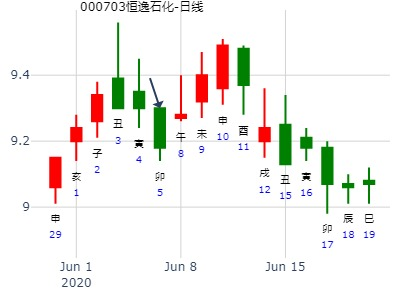
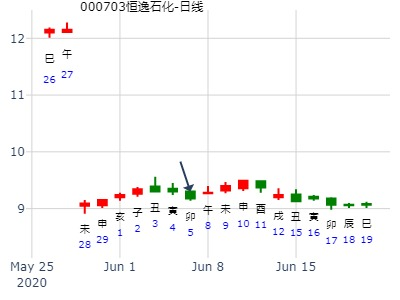
sheng2heng

diff --git a/升之恒.html b/升之恒.html
@@ -1,0 +1,319 @@
+<style>
+                        body  {color: black;  font-size: 12px; background-color: rgb(250, 240, 230);}
+                        img {width:80%; height:auto; } 
+                        </style><p>此卦信息不全，没有时间。</p>
+<hr />
+<p>天同问辛丑年财运。升之恒。天同卦.md</p>
+<p>时间: 2021-02-16   3时49分</p>
+<p>干支: 辛丑年庚寅月乙未日      (旬空: 辰巳 )</p>
+<p>地风升                     雷风恒      </p>
+<p>六神　伏神　　本　　卦　　　　　　　          变　　卦</p>
+<p>玄武　　　　　▅▅  ▅▅   官鬼酉金　　　　　▅▅  ▅▅　妻财戌土　应</p>
+<p>白虎　　　　　▅▅  ▅▅   父母亥水　　　　　▅▅  ▅▅　官鬼申金　　</p>
+<p>腾蛇　子孙午火▅▅  ▅▅   妻财丑土　世Ｘ→　▅▅▅▅▅　子孙午火　　</p>
+<p>勾陈　　　　　▅▅▅▅▅   官鬼酉金　　　　　▅▅▅▅▅　官鬼酉金　世</p>
+<p>朱雀　兄弟寅木▅▅▅▅▅   父母亥水　　　　　▅▅▅▅▅　父母亥水　　</p>
+<p>青龙　　　　　▅▅  ▅▅   妻财丑土　应　　　▅▅  ▅▅　妻财丑土　　</p>
+<p><img alt="" src="images/a069948f310a5239e270.jpg" /></p>
+<p><img alt="" src="images/867E7C0FECAA46A0826D.jpg" /></p>
+<p><img alt="" src="images/sh000001_2021-02-16_35d.jpg" /></p>
+<hr />
+<p>性别：男  婚否:   占事：4月1号沪市涨跌？起卦方式：手工指定</p>
+<p>公历时间：2016年03月31日19时22分    农历时间：丙申年二月廿三戌 </p>
+<p>干　　支：丙申年 辛卯月 壬子日 庚戌时    日　空：寅卯</p>
+<p>震宫：地风升　　　　　　　　　　震宫：雷风恒</p>
+<p>六神 　伏　　神 【本　　卦】　　　　　　　　　【变　　卦】</p>
+<p>白虎　　　　　　　▅▅　▅▅　官鬼癸酉金　　　　　▅▅　▅▅　妻财庚戌土　应</p>
+<p>螣蛇　　　　　　　▅▅　▅▅　父母癸亥水　　　　　▅▅　▅▅　官鬼庚申金　　</p>
+<p>勾陈　子孙庚午火　▅▅　▅▅　妻财癸丑土　世 X　　▅▅▅▅▅　子孙庚午火　　</p>
+<p>朱雀　　　　　　　▅▅▅▅▅　官鬼辛酉金　　　　　▅▅▅▅▅　官鬼辛酉金　世</p>
+<p>青龙　兄弟庚寅木　▅▅▅▅▅　父母辛亥水　　　　　▅▅▅▅▅　父母辛亥水　　</p>
+<p>玄武　　　　　　　▅▅　▅▅　妻财辛丑土　应　　　▅▅　▅▅　妻财辛丑土　</p>
+<p>丑财动化午生，先是官酉泄气，低开下探，11点之前多数是绿盘，但丑值日，最多跌不过2970</p>
+<p>11点之后企稳开始震荡上扬，午后继续总体上涨，最终收阳，收于3020－3050点左右</p>
+<p><img alt="" src="images/sh000001_2016-03-31_15d.jpg" /></p>
+<hr />
+<p>600779上半年走势如何？ 起卦方式：手动摇卦。 全年涨幅第一。</p>
+<p>公历时间：2017年3月5日8时26分    </p>
+<p>丁酉年 壬寅月 辛卯日 壬辰时　</p>
+<p>辰巳   辰巳   (午未)   午未  　</p>
+<p>震宫：地风升　　　　　　　　　　震宫：雷风恒 </p>
+<p>六神 　伏　　神 【本　　卦】　　　　　　　　　【变　　卦】</p>
+<p>螣蛇　　　　　　　▄▄  ▄▄　官鬼癸酉金　　　　　▄▄  ▄▄　妻财庚戌土　应</p>
+<p>勾陈　　　　　　　▄▄  ▄▄　父母癸亥水　　　　　▄▄  ▄▄　官鬼庚申金　　</p>
+<p>朱雀　子孙庚午火　▄▄  ▄▄　妻财癸丑土　世X-&gt; 　▄▄▄▄▄　子孙庚午火　　</p>
+<p>青龙　　　　　　　▄▄▄▄▄　官鬼辛酉金　　　　　▄▄▄▄▄　官鬼辛酉金　世</p>
+<p>玄武　兄弟庚寅木　▄▄▄▄▄　父母辛亥水　　　　　▄▄▄▄▄　父母辛亥水　　</p>
+<p>白虎　　　　　　　▄▄  ▄▄　妻财辛丑土　应　　　▄▄  ▄▄　妻财辛丑土　</p>
+<p>六四：王用亨于岐山，吉无咎。象曰：王用亨于岐山，顺事也。　</p>
+<p>丑月见小顶。</p>
+<p>年卦定性：此卦不拘起卦日月皆为兄弟。也不怕未月月破。定性为财化子。</p>
+<p><img alt="" src="images/DCF7C47403F74C41BF03.jpg" /></p>
+<p><img alt="" src="images/1864218D50184862A23A.jpg" /></p>
+<hr />
+<p>主帖标题: 下周持股能否得财</p>
+<p>出生：没填 年　性别：男　占事：下周持有股票得财否</p>
+<p>排卦：元亨利贞网六爻在线排盘系统　　　http://www.china95.net </p>
+<p>公历起卦时间：2014年4月27日21时51分　(在线摇卦)</p>
+<p>干支：甲午年　戊辰月　戊辰日　癸亥时　　（日空：戌亥）</p>
+<p>震宫：地风升 　　　 　 　　震宫：雷风恒 　　　 </p>
+<p>六神　　伏神　　　本　 　　卦　　 　 　　　　变　 　　卦</p>
+<p>朱雀 　　　　　 官鬼癸酉金 ▅▅　▅▅ 　 　　 妻财庚戌土 ▅▅　▅▅ 应</p>
+<p>青龙 　　　　　 父母癸亥水 ▅▅　▅▅ 　 　　 官鬼庚申金 ▅▅　▅▅ 　</p>
+<p>玄武 子孙庚午火 妻财癸丑土 ▅▅　▅▅ 世 ╳→ 子孙庚午火 ▅▅▅▅▅ 　</p>
+<p>白虎 　　　　　 官鬼辛酉金 ▅▅▅▅▅ 　 　　 官鬼辛酉金 ▅▅▅▅▅ 世</p>
+<p>腾蛇 兄弟庚寅木 父母辛亥水 ▅▅▅▅▅ 　 　　 父母辛亥水 ▅▅▅▅▅ 　</p>
+<p>勾陈 　　　　　 妻财辛丑土 ▅▅　▅▅ 应 　　 妻财辛丑土 ▅▅　▅▅ 　</p>
+<p>本周已经买入股票，但是不知道下周大盘啥情况，变换个方式，摇卦看看持有股票能得财不？</p>
+<p>注：以大盘替代。巳日亥水暗动，跌。午日子孙值日。涨。30日与12日未日都是涨。</p>
+<p><img alt="" src="images/sh000001_2014-04-27_15d.jpg" /></p>
+<hr />
+<p>出生：没填 年　性别：男　占事：上海大盘下周13日-17日走势</p>
+<p>公历起卦时间：2016年6月10日17时40分　(在线摇卦)</p>
+<p>干支：丙申年　甲午月　癸亥日　辛酉时　　（日空：子丑）</p>
+<p>神煞：驿马－巳　桃花－子　日禄－子　贵人－卯，巳</p>
+<p>震宫：地风升 　　　 　 　　震宫：雷风恒 　　　 </p>
+<p>六神　　伏神　　　本　 　　卦　　 　 　　　　变　 　　卦</p>
+<p>白虎 　　　　　 官鬼癸酉金 ▅▅　▅▅ 　 　　 妻财庚戌土 ▅▅　▅▅ 应</p>
+<p>腾蛇 　　　　　 父母癸亥水 ▅▅　▅▅ 　 　　 官鬼庚申金 ▅▅　▅▅ 　</p>
+<p>勾陈 子孙庚午火 妻财癸丑土 ▅▅　▅▅ 世 ╳→ 子孙庚午火 ▅▅▅▅▅ 　</p>
+<p>朱雀 　　　　　 官鬼辛酉金 ▅▅▅▅▅ 　 　　 官鬼辛酉金 ▅▅▅▅▅ 世</p>
+<p>青龙 兄弟庚寅木 父母辛亥水 ▅▅▅▅▅ 　 　　 父母辛亥水 ▅▅▅▅▅ 　</p>
+<p>玄武 　　　　　 妻财辛丑土 ▅▅　▅▅ 应 　　 妻财辛丑土 ▅▅　▅▅ 　</p>
+<p>下周行情真的会如此好~~</p>
+<p><img alt="" src="images/sh000001_2016-06-10_15d.jpg" /></p>
+<hr />
+<p>主帖标题: 分析一验卦，抛砖引玉！欢迎批评指导！</p>
+<p>出生：2020 年　性别：男　占事：恒逸石化  6.8.--6.12日哪天是高点？</p>
+<p>排卦：元亨利贞网六爻在线排盘系统　　　https://www.china95.net </p>
+<p>公历起卦时间：2020年6月5日15时31分　(手工指定)</p>
+<p>干支：庚子年　壬午月　己卯日　壬申时　　（日空：申酉）</p>
+<p>震宫：地风升 　　　 　 　　震宫：雷风恒 　　　 </p>
+<p>六神　　伏神　　　本　 　　卦　　 　 　　　　变　 　　卦</p>
+<p>勾陈 　　　　　 官鬼癸酉金 ▅▅　▅▅ 　 　　 妻财庚戌土 ▅▅　▅▅ 应</p>
+<p>朱雀 　　　　　 父母癸亥水 ▅▅　▅▅ 　 　　 官鬼庚申金 ▅▅　▅▅ 　</p>
+<p>青龙 子孙庚午火 妻财癸丑土 ▅▅　▅▅ 世 ╳→ 子孙庚午火 ▅▅▅▅▅ 　</p>
+<p>玄武 　　　　　 官鬼辛酉金 ▅▅▅▅▅ 　 　　 官鬼辛酉金 ▅▅▅▅▅ 世</p>
+<p>白虎 兄弟庚寅木 父母辛亥水 ▅▅▅▅▅ 　 　　 父母辛亥水 ▅▅▅▅▅ 　</p>
+<p>螣蛇 　　　　　 妻财辛丑土 ▅▅　▅▅ 应 　　 妻财辛丑土 ▅▅　▅▅午未申酉戌</p>
+<hr />
+<p>姓名：姓名　　出生年份：2020年 　　性别：男　　</p>
+<p>占事:恒逸石化6.8-6.12哪天是高点？</p>
+<p>起卦方式：手动摇卦 　　   </p>
+<p>公历时间：2020年6月7日13时23分  </p>
+<p>干　　支：庚子年 壬午月 辛巳日 乙未时　</p>
+<p>旬　　空：辰巳   申酉   申酉   辰巳  　</p>
+<p>艮宫：风山渐（归魂）　　　　　　离宫：风水涣</p>
+<p>六神 　伏　　神 【本　　卦】　　　　　　　　　【变　　卦】</p>
+<p>螣蛇　　　　　　　▄▄▄▄▄　官鬼辛卯木　应　　　▄▄▄▄▄　官鬼辛卯木　　</p>
+<p>勾陈　妻财丙子水　▄▄▄▄▄　父母辛巳火　　　　　▄▄▄▄▄　父母辛巳火　世</p>
+<p>朱雀　　　　　　　▄▄  ▄▄　兄弟辛未土　　　　　▄▄  ▄▄　兄弟辛未土　　</p>
+<p>青龙　　　　　　　▄▄▄▄▄　子孙丙申金　世O-&gt; 　▄▄  ▄▄　父母戊午火　　</p>
+<p>玄武　　　　　　　▄▄  ▄▄　父母丙午火　　X-&gt; 　▄▄▄▄▄　兄弟戊辰土　应</p>
+<p>白虎　　　　　　　▄▄  ▄▄　兄弟丙辰土　　　　　▄▄  ▄▄　官鬼戊寅木　　</p>
+<p>又出这种卦，晕晕啊。</p>
+<p>1，周一午日：日月俩午火，卦内俩午火，四个午火克一个子孙申金。晕！</p>
+<p>2，财爻子水周一月破+日破。真是个破烂，哈哈。</p>
+<p><img alt="" src="images/000703_2020-06-05_15d.jpg" /></p>
+<hr />
+<p>占事：300049七月份</p>
+<p>时间: 2021-06-30    17时37分</p>
+<p>干支: 辛丑年甲午月己酉日      (旬空: 寅卯 )</p>
+<p>地风升                     雷风恒      </p>
+<p>六神　伏神　　本　　卦　　　　　　　          变　　卦</p>
+<p>勾陈　　　　　▅▅  ▅▅   官鬼酉金　　　　　▅▅  ▅▅　妻财戌土　应</p>
+<p>朱雀　　　　　▅▅  ▅▅   父母亥水　　　　　▅▅  ▅▅　官鬼申金　　</p>
+<p>青龙　子孙午火▅▅  ▅▅   妻财丑土　世Ｘ→　▅▅▅▅▅　子孙午火　　</p>
+<p>玄武　　　　　▅▅▅▅▅   官鬼酉金　　　　　▅▅▅▅▅　官鬼酉金　世</p>
+<p>白虎　兄弟寅木▅▅▅▅▅   父母亥水　　　　　▅▅▅▅▅　父母亥水　　</p>
+<p>腾蛇　　　　　▅▅  ▅▅   妻财丑土　应　　　▅▅  ▅▅　妻财丑土　　</p>
+<p>7月动态旬空子丑空，世爻旬空不受生，巳午日不一定得生？</p>
+<p>升卦静卦怕未月破世爻。然后此卦却不怕。</p>
+<p><img alt="" src="images/F81A6706AF7A4FA8976F.jpg" /></p>
+<p><img alt="" src="images/300049_2021-06-30_35d.jpg" /></p>
+<p><img alt="" src="images/0AB3EC196A2E4AAFB1EB.jpg" /></p>
+<hr />
+<p>主帖标题: 听说这里很多高手,请高手们帮我看一看这个股未来一个月的走势.</p>
+<p>出生：没填 年　性别：男　</p>
+<p>占事：点[000825]太钢不锈未来一个月走势</p>
+<p>公历起卦时间：2007年7月3日12时39分　(在线摇卦)</p>
+<p>干支：丁亥年　丙午月　戊戌日　戊午时　　（日空：辰巳）</p>
+<p>震宫：地风升 　　　 　 　　震宫：雷风恒 　　</p>
+<p>六神　　伏神　　　本　 　　卦　　 　 　　　　变　 　　卦</p>
+<p>朱雀 　　　　　 官鬼癸酉金 ▅▅　▅▅ 　 　　 妻财庚戌土 ▅▅　▅▅ 应</p>
+<p>青龙 　　　　　 父母癸亥水 ▅▅　▅▅ 　 　　 官鬼庚申金 ▅▅　▅▅ 　</p>
+<p>玄武 子孙庚午火 妻财癸丑土 ▅▅　▅▅ 世 ╳→ 子孙庚午火 ▅▅▅▅▅ 　</p>
+<p>白虎 　　　　　 官鬼辛酉金 ▅▅▅▅▅ 　 　　 官鬼辛酉金 ▅▅▅▅▅ 世</p>
+<p>腾蛇 兄弟庚寅木 父母辛亥水 ▅▅▅▅▅ 　 　　 父母辛亥水 ▅▅▅▅▅ 　</p>
+<p>勾陈 　　　　　 妻财辛丑土 ▅▅　▅▅ 应 　　 妻财辛丑土 ▅▅　▅▅ 　</p>
+<p>请版主们指点,谢谢!</p>
+<p><img alt="" src="images/000825_2007-07-03_35d.jpg" /></p>
+<hr />
+<p>占事：7月2日期指1507的走势　   方式：手工指定</p>
+<p>公历：2015年7月2日9时1分 星期四 北京时间</p>
+<p>干支：乙未年 壬午月 己卯日 己巳时  旬空：辰巳　 申酉　 申酉　 戌亥</p>
+<p>震：地风升　　　　　　　　　　震：雷风恒</p>
+<p>六神　伏　　　神　【本　　卦】　　　　　　　　　【变　　卦】</p>
+<p>勾陈　　　　　　　 ▅▅　▅▅ 官鬼癸酉金 　　　　▅▅　▅▅ 妻财庚戌土 应</p>
+<p>朱雀　　　　　　　 ▅▅　▅▅ 父母癸亥水 　　　　▅▅　▅▅ 官鬼庚申金</p>
+<p>青龙　子孙庚午火　 ▅▅　▅▅ 妻财癸丑土 世×→　▅▅▅▅▅ 子孙庚午火</p>
+<p>玄武　　　　　　　 ▅▅▅▅▅ 官鬼辛酉金 　　　　▅▅▅▅▅ 官鬼辛酉金 世</p>
+<p>白虎　兄弟庚寅木　 ▅▅▅▅▅ 父母辛亥水 　　　　▅▅▅▅▅ 父母辛亥水</p>
+<p>螣蛇　　　　　　　 ▅▅　▅▅ 妻财辛丑土 应　　　▅▅　▅▅ 妻财辛丑土</p>
+<p><img alt="" src="images/sh000001_2015-07-02_15d.jpg" /></p>
+<hr />
+<p>明后二天上证走势-天同</p>
+<p>时间: 2024-07-17</p>
+<p>干支: 甲辰年辛未月壬午日      (旬空: 申酉 )</p>
+<p>地风升                     雷风恒      </p>
+<p>六神　伏神　　本　　卦　　　　　　　          变　　卦</p>
+<p>白虎　　　　　▅▅  ▅▅   官鬼酉金　　　　　▅▅  ▅▅　妻财戌土　应</p>
+<p>腾蛇　　　　　▅▅  ▅▅   父母亥水　　　　　▅▅  ▅▅　官鬼申金　　</p>
+<p>勾陈　子孙午火▅▅  ▅▅   妻财丑土　世Ｘ→　▅▅▅▅▅　子孙午火　　</p>
+<p>朱雀　　　　　▅▅▅▅▅   官鬼酉金　　　　　▅▅▅▅▅　官鬼酉金　世</p>
+<p>青龙　兄弟寅木▅▅▅▅▅   父母亥水　　　　　▅▅▅▅▅　父母亥水　　</p>
+<p>玄武　　　　　▅▅  ▅▅   妻财丑土　应　　　▅▅  ▅▅　妻财丑土　　</p>
+<p><img alt="" src="images/sh000001_2024-07-17_15d.jpg" /></p>
+<hr />
+<p>风生水起  占事：大盘下周   起卦方式：手动摇卦</p>
+<p>公历时间：2015年8月29日9时41分    </p>
+<p>干　　支：乙未年 甲申月 丁丑日 乙巳时　</p>
+<p>旬　　空：辰巳   午未   (申酉)   寅卯  　</p>
+<p>震宫：地风升　　　　　　　　　　震宫：雷风恒</p>
+<p>六神 　伏　　神 【本　　卦】　　　　　　　　　【变　　卦】</p>
+<p>青龙　　　　　　　▄▄  ▄▄　官鬼癸酉金　　　　　▄▄  ▄▄　妻财庚戌土　应</p>
+<p>玄武　　　　　　　▄▄  ▄▄　父母癸亥水　　　　　▄▄  ▄▄　官鬼庚申金　　</p>
+<p>白虎　子孙庚午火　▄▄  ▄▄　妻财癸丑土　世X-&gt; 　▄▄▄▄▄　子孙庚午火　　</p>
+<p>螣蛇　　　　　　　▄▄▄▄▄　官鬼辛酉金　　　　　▄▄▄▄▄　官鬼辛酉金　世</p>
+<p>勾陈　兄弟庚寅木　▄▄▄▄▄　父母辛亥水　　　　　▄▄▄▄▄　父母辛亥水　　</p>
+<p>朱雀　　　　　　　▄▄  ▄▄　妻财辛丑土　应　　　▄▄  ▄▄　妻财辛丑土</p>
+<p><img alt="" src="images/A95D143F7D5A426D8705.jpg" /></p>
+<p><img alt="" src="images/sh000001_2015-08-29_15d.jpg" /></p>
+<hr />
+<p>600110 二周卦。2021年8月8日 ，升之恒。</p>
+<p>时间: 2021-08-08  8时21分</p>
+<p>干支: 辛丑年丙申月戊子日      (旬空: 午未 )</p>
+<p>地风升                     雷风恒      </p>
+<p>六神　伏神　　本　　卦　　　　　　　          变　　卦</p>
+<p>朱雀　　　　　▅▅  ▅▅   官鬼酉金　　　　　▅▅  ▅▅　妻财戌土　应</p>
+<p>青龙　　　　　▅▅  ▅▅   父母亥水　　　　　▅▅  ▅▅　官鬼申金　　</p>
+<p>玄武　子孙午火▅▅  ▅▅   妻财丑土　世Ｘ→　▅▅▅▅▅　子孙午火　　</p>
+<p>白虎　　　　　▅▅▅▅▅   官鬼酉金　　　　　▅▅▅▅▅　官鬼酉金　世</p>
+<p>腾蛇　兄弟寅木▅▅▅▅▅   父母亥水　　　　　▅▅▅▅▅　父母亥水　　</p>
+<p>勾陈　　　　　▅▅  ▅▅   妻财丑土　应　　　▅▅  ▅▅　妻财丑土　　</p>
+<p><img alt="" src="images/8B52E67ABF614F65959C.jpg" /></p>
+<p><img alt="" src="images/D509B47F511D4036AEF7.jpg" /></p>
+<hr />
+<p>易经预测上证走势看盘交流（2014年9月12日)</p>
+<p>起卦方式：手工指定  </p>
+<p>公历时间：2014年9月11日15时20分</p>
+<p>干　　支：甲午年 癸酉月 乙酉日 甲申时　</p>
+<p>旬　　空：辰巳   戌亥   (午未)   午未  </p>
+<p>震宫：地风升　　　　　　　　　　震宫：雷风恒 </p>
+<p>六神 　伏　　神 【本　　卦】　　　　　　　　　【变　　卦】</p>
+<p>玄武　　　　　　　▄▄  ▄▄　官鬼癸酉金　　　　　▄▄  ▄▄　妻财庚戌土　应</p>
+<p>白虎　　　　　　　▄▄  ▄▄　父母癸亥水　　　　　▄▄  ▄▄　官鬼庚申金　　</p>
+<p>螣蛇　子孙庚午火　▄▄  ▄▄　妻财癸丑土　世X-&gt; 　▄▄▄▄▄　子孙庚午火　　</p>
+<p>勾陈　　　　　　　▄▄▄▄▄　官鬼辛酉金　　　　　▄▄▄▄▄　官鬼辛酉金　世</p>
+<p>朱雀　兄弟庚寅木　▄▄▄▄▄　父母辛亥水　　　　　▄▄▄▄▄　父母辛亥水　　</p>
+<p>青龙　　　　　　　▄▄  ▄▄　妻财辛丑土　应　　　▄▄  ▄▄　妻财辛丑土　　</p>
+<p>六四：王用亨于岐山，吉无咎。</p>
+<p>象曰：王用亨于岐山，顺事也。</p>
+<p><img alt="" src="images/E790D79E0C734D1ABBC8.png" /></p>
+<hr />
+<p>长城汽车A未来12天走势--天同</p>
+<p>时间: 2021-09-14   9时18分</p>
+<p>干支: 辛丑年丁酉月乙丑日      (旬空: 戌亥 )</p>
+<p>地风升                     雷风恒      </p>
+<p>六神　伏神　　本　　卦　　　　　　　          变　　卦</p>
+<p>玄武　　　　　▅▅  ▅▅   官鬼酉金　　　　　▅▅  ▅▅　妻财戌土　应</p>
+<p>白虎　　　　　▅▅  ▅▅   父母亥水　　　　　▅▅  ▅▅　官鬼申金　　</p>
+<p>腾蛇　子孙午火▅▅  ▅▅   妻财丑土　世Ｘ→　▅▅▅▅▅　子孙午火　　</p>
+<p>勾陈　　　　　▅▅▅▅▅   官鬼酉金　　　　　▅▅▅▅▅　官鬼酉金　世</p>
+<p>朱雀　兄弟寅木▅▅▅▅▅   父母亥水　　　　　▅▅▅▅▅　父母亥水　　</p>
+<p>青龙　　　　　▅▅  ▅▅   妻财丑土　应　　　▅▅  ▅▅　妻财丑土　</p>
+<p>此卦有意思，卦是好卦，然后接下来一二周流日大多非兄弟即父母爻。</p>
+<p>然后到了29日以后，辰巳午均是子孙妻财助力。尤其戌月未日，不冲散丑，反而冲旺丑。</p>
+<p><img alt="" src="images/601633_2021-09-14_35d.jpg" /></p>
+<p><img alt="" src="images/64FE67780EA74C9BB567.jpg" /></p>
+<p><img alt="" src="images/83CA1BCF4052475A8516.jpg" /></p>
+<hr />
+<p>荣科科技到下周五-金玉堂自动卦</p>
+<p>时间: 2024-10-11</p>
+<p>干支: 甲辰年甲戌月戊申日      (旬空: 寅卯 )</p>
+<p>地风升                     雷风恒      </p>
+<p>六神　伏神　　本　　卦　　　　　　　          变　　卦</p>
+<p>朱雀　　　　　▅▅  ▅▅   官鬼酉金　　　　　▅▅  ▅▅　妻财戌土　应</p>
+<p>青龙　　　　　▅▅  ▅▅   父母亥水　　　　　▅▅  ▅▅　官鬼申金　　</p>
+<p>玄武　子孙午火▅▅  ▅▅   妻财丑土　世Ｘ→　▅▅▅▅▅　子孙午火　　</p>
+<p>白虎　　　　　▅▅▅▅▅   官鬼酉金　　　　　▅▅▅▅▅　官鬼酉金　世</p>
+<p>腾蛇　兄弟寅木▅▅▅▅▅   父母亥水　　　　　▅▅▅▅▅　父母亥水　　</p>
+<p>勾陈　　　　　▅▅  ▅▅   妻财丑土　应　　　▅▅  ▅▅　妻财丑土　　</p>
+<p><img alt="" src="images/300290_2024-10-11_15d.jpg" /></p>
+<hr />
+<p>主帖标题: 歪打正着</p>
+<p>今天准备买入000157，于是在股软中奌击数理卦指标,一看是</p>
+<p>庚子 丁亥 乙丑 庚辰 (戌亥空) 庚子年十月初四(2020/11/18 08:41:47)</p>
+<p>地风升　　　　　雷风恒</p>
+<p>玄武 官鬼酉金 ∥ 　　妻财戌土 ∥ 应</p>
+<p>白虎 父母亥水 ∥ 　　官鬼申金 ∥ 　</p>
+<p>子孙午火：腾蛇 妻财丑土 × 世　子孙午火 ／ 　</p>
+<p>勾陈 官鬼酉金 ／ 　　官鬼酉金 ／ 世</p>
+<p>兄弟寅木：朱雀 父母亥水 ／ 　　父母亥水 ／ 　</p>
+<p>青龙 妻财丑土 ∥ 应　妻财丑土 ∥ 　</p>
+<hr />
+<p>于是逢低买入,当下午拉升时,再到股软中去看卦,发现昨天是</p>
+<p>庚子 丁亥 丙寅 壬辰 (戌亥空) 庚子年十月初五(2020/11/19 08:41:47)</p>
+<p>山天大畜　　　　山泽损</p>
+<p>青龙 官鬼寅木 ／ 　　官鬼寅木 ／ 应</p>
+<p>玄武 妻财子水 ∥ 应　妻财子水 ∥ 　</p>
+<p>白虎 兄弟戌土 ∥ 　　兄弟戌土 ∥ 　</p>
+<p>子孙申金：腾蛇 兄弟辰土 ○ 　　兄弟丑土 ∥ 世</p>
+<p>父母午火：勾陈 官鬼寅木 ／ 世　官鬼卯木 ／ 　</p>
+<p>朱雀 妻财子水 ／ 　　父母巳火 ／ 　</p>
+<p>而前天才是　 地风升　　之　　　雷风恒</p>
+<p><img alt="" src="images/000157_2020-11-18_15d.jpg" /></p>
+<p>注：此数理卦不敢苟同</p>
+<hr />
+<p>主帖标题: 手摇 芯片 未来一月 11月30日</p>
+<p>公历：2020年11月29日12时51分，星期日。</p>
+<p>干支：庚子年  丁亥月  丙子日  甲午时 (卦身：酉)</p>
+<p>主变卦    地风升(震宫)  之  雷风恒(震宫)  [空亡:申、酉]</p>
+<p>青龙 　　　　　 ▅▅　▅▅　官鬼癸酉金 　　　▅▅　▅▅　妻财庚戌土 应　</p>
+<p>玄武 　　　　　 ▅▅　▅▅　父母癸亥水 　　　▅▅　▅▅　官鬼庚申金 　　</p>
+<p>白虎 子孙庚午火 ▅▅　▅▅×妻财癸丑土 世　　▅▅▅▅▅　子孙庚午火 　　</p>
+<p>螣蛇 　　　　　 ▅▅▅▅▅　官鬼辛酉金 　　　▅▅▅▅▅　官鬼辛酉金 世　</p>
+<p>勾陈 兄弟庚寅木 ▅▅▅▅▅　父母辛亥水 　　　▅▅▅▅▅　父母辛亥水 　　</p>
+<p>朱雀 　　　　　 ▅▅　▅▅　妻财辛丑土 应　　▅▅　▅▅　妻财辛丑土 　　</p>
+<p><img alt="" src="images/159995_2020-11-29_35d.jpg" /></p>
+<hr />
+<p>主帖标题: 11/11创业板   今日创业板指</p>
+<p>姓名：入定观 出生年: 性别：男 占事：</p>
+<p>起卦方式：手动摇卦</p>
+<p>公历时间：2022年11月11日7时28分    </p>
+<p>干　　支：壬寅年 辛亥月 戊辰日 丙辰时　</p>
+<p>旬　　空：辰巳   寅卯   戌亥   子丑  　</p>
+<p>震宫：地风升　　　　　　　　　　震宫：雷风恒</p>
+<p>六神 　伏　　神 【本　　卦】　　　　　　　　　【变　　卦】</p>
+<p>朱雀　　　　　　　▄▄　▄▄　官鬼癸酉金　　　　　▄▄　▄▄　妻财庚戌土　应</p>
+<p>青龙　　　　　　　▄▄　▄▄　父母癸亥水　　　　　▄▄　▄▄　官鬼庚申金　　</p>
+<p>玄武　子孙庚午火　▄▄　▄▄　妻财癸丑土　世 ×　　▄▄▄▄▄　子孙庚午火　　</p>
+<p>白虎　　　　　　　▄▄▄▄▄　官鬼辛酉金　　　 　　▄▄▄▄▄　官鬼辛酉金　世</p>
+<p>螣蛇　兄弟庚寅木　▄▄▄▄▄　父母辛亥水　　　 　　▄▄▄▄▄　父母辛亥水　　</p>
+<p>勾陈　　　　　　　▄▄　▄▄　妻财辛丑土　应　　　▄▄　▄▄　妻财辛丑土　　</p>
+<p><img alt="" src="images/399006_2022-11-11_15d.jpg" /></p>
+<hr />
+<p>主帖标题: 下周大盘？</p>
+<p>2022年11月25日20时29分　升之恒</p>
+<p>干支：壬寅年　辛亥月　壬午日　庚戌时　　（日空：申酉）</p>
+<p>神煞：驿马－申　桃花－卯　日禄－亥　贵人－卯，巳</p>
+<p>震宫：地风升 　　　 　 　　震宫：雷风恒 　　　 </p>
+<p>六神　伏神　 　本　 　　卦　　 　 　　 　　变　 　　卦</p>
+<p>白虎 　　　　 官鬼酉金 ▅▅　▅▅ 　 　　 妻财戌土 ▅▅　▅▅ 应 </p>
+<p>螣蛇 　　　　 父母亥水 ▅▅　▅▅ 　 　　 官鬼申金 ▅▅　▅▅ 　 </p>
+<p>勾陈 子孙午火 妻财丑土 ▅▅　▅▅ 世 ╳→ 子孙午火 ▅▅▅▅▅ 　 </p>
+<p>朱雀 　　　　 官鬼酉金 ▅▅▅▅▅ 　 　　 官鬼酉金 ▅▅▅▅▅ 世 </p>
+<p>青龙 兄弟寅木 父母亥水 ▅▅▅▅▅ 　 　　 父母亥水 ▅▅▅▅▅ 　 </p>
+<p>玄武 　　　　 妻财丑土 ▅▅　▅▅ 应 　　 妻财丑土 ▅▅　▅▅ 　</p>
+<p><img alt="" src="images/sh000001_2022-11-25_15d.jpg" /></p>
+<hr />
